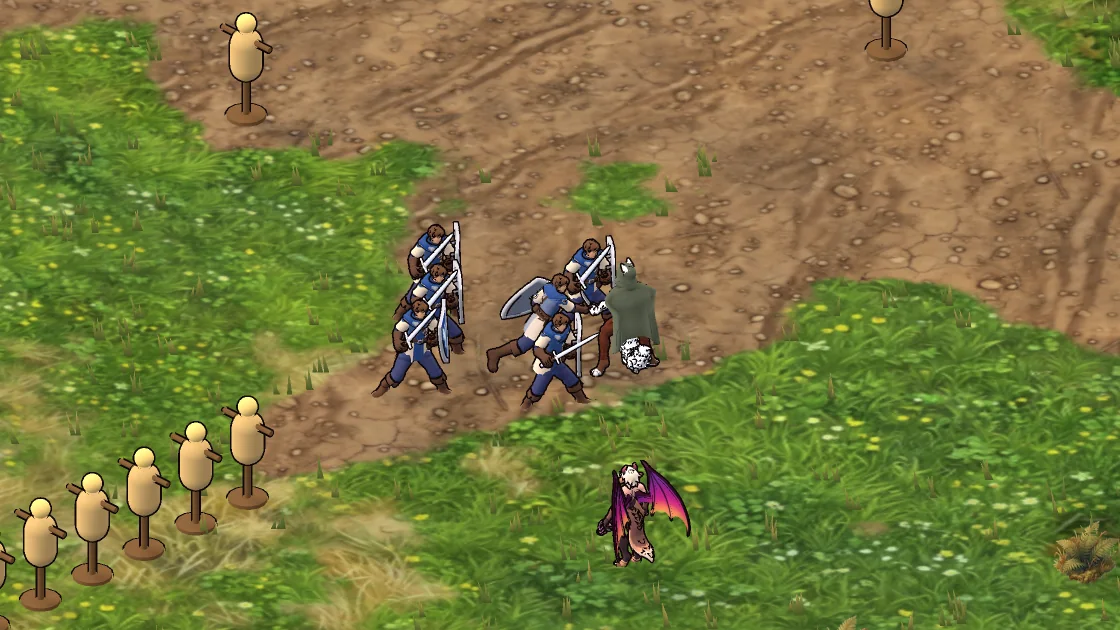
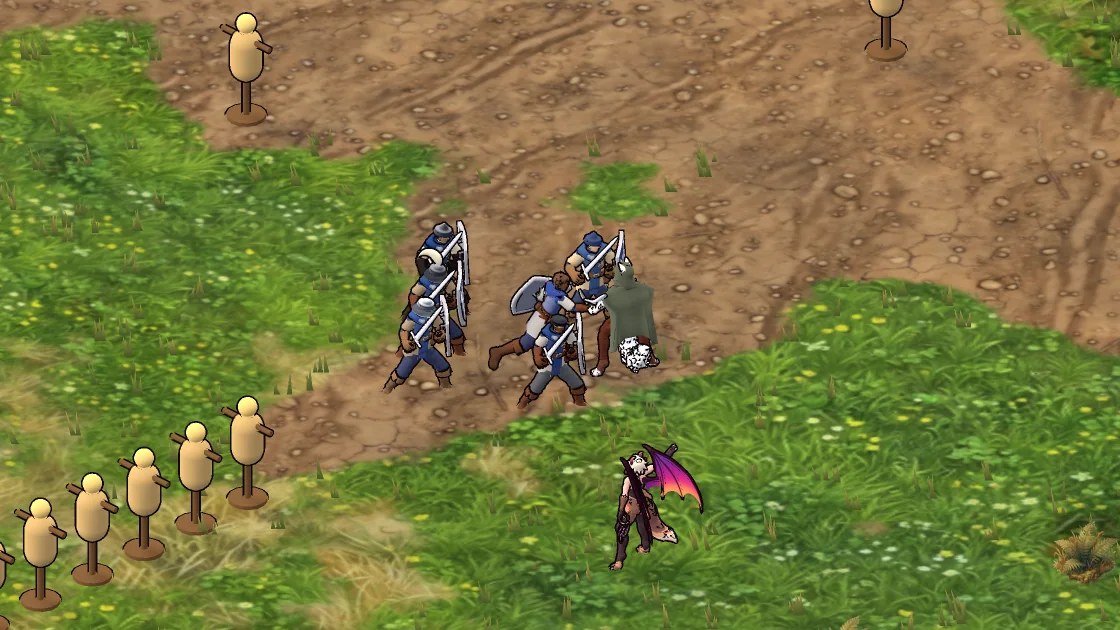
Meridius Godot: the sandbox squad dressed by the squad looks lab
The 3D unit sandbox's footman squad now wears the squad looks lab's dress
(prototypes/squad_looks) when it is on disk: each man his own helmet, face
and build under the blue livery and the line kit, the squad's mark on every
shield, and glances at his squadmates and the roster. A squad spawned again
is dressed anew. Without the lab the men are the plain footman.

The Workspace's Sandbox card shows the dressed squad in its six squad
pictures, and the README says where the dress comes from and how far off his
place a man may come to rest (up to 30 cm where his whole strides do not fit
the way).

diff --git a/workspace/2026-10-24_sandbox/index.html b/workspace/2026-10-24_sandbox/index.html
@@ -16,7 +16,7 @@
     <div class="hero-copy">
       <p class="eyebrow">Meridius · 3D unit sandbox</p>
       <h1>Every 3D unit on <em>one battlefield</em></h1>
-      <p class="lede">Six rigged characters and a squad of six footmen on a training ground in the game's own look: painted hills, the woodland, a pond, the fog of war and the night. March them over the map, set them on each other, drill the squad and play any of their clips.</p>
+      <p class="lede">Six rigged characters and a squad of six footmen, each in his own helmet and face, on a training ground in the game's own look: painted hills, the woodland, a pond, the fog of war and the night. March them over the map, set them on each other, drill the squad and play any of their clips.</p>
       <div class="launch">
         <button id="launch" class="launch-btn" type="button"><span class="play" aria-hidden="true"></span><span>Open the sandbox</span></button>
         <p id="launch-status" class="launch-status" role="status" aria-live="polite">Opens in its own maximized window. If the sandbox is already open, the button brings it to the front.</p>
@@ -167,7 +167,7 @@ powershell -ExecutionPolicy Bypass -File .\Setup.ps1 -Mode Update</pre>
     <div class="gallery-group">
       <h3>The footman squad</h3>
       <div class="shots">
-        <figure class="shot"><img src="media/squad-ranks.webp" width="1120" height="630" loading="lazy" decoding="async" alt="Six footmen in two ranks of three, each standing a little differently"><figcaption><b>Two ranks of three.</b> Each man rests a few centimetres off his place, turned a few degrees, his idle at its own phase.</figcaption></figure>
+        <figure class="shot"><img src="media/squad-ranks.webp" width="1120" height="630" loading="lazy" decoding="async" alt="Six footmen in two ranks of three, each with his own helmet and face, the blue eagle on every shield"><figcaption><b>Two ranks of three.</b> Each man dressed by the looks lab in his own helmet and face, resting a little off his place, his idle at its own phase.</figcaption></figure>
         <figure class="shot"><img src="media/squad-march.webp" width="1120" height="630" loading="lazy" decoding="async" alt="The squad marching in formation towards the drill line of six straw dummies"><figcaption><b>The advance.</b> In formation to the drill line, each man setting off and stepping at his own pace.</figcaption></figure>
         <figure class="shot"><img src="media/squad-front-rank.webp" width="1120" height="630" loading="lazy" decoding="async" alt="The front rank of three footmen cutting at the dummies while the rear rank stands behind"><figcaption><b>The front rank strikes.</b> The rear rank stands ready; no two blows start together.</figcaption></figure>
         <figure class="shot"><img src="media/squad-reformed.webp" width="1120" height="630" loading="lazy" decoding="async" alt="The squad back in two ranks before the drill line after the fight"><figcaption><b>Re-formed.</b> After a few blows each, the ranks close up where they fought.</figcaption></figure>

diff --git a/projects/meridius/source/godot/prototypes/sandbox3d/README.md b/projects/meridius/source/godot/prototypes/sandbox3d/README.md
@@ -30,7 +30,11 @@ with the footman) and says which in the left panel and the console.
 ## The footman squad
 
 Six footmen in two ranks of three, each on the footman's own controller, who
-march, stand and fight together but never quite in step:
+march, stand and fight together but never quite in step. Where the squad looks
+lab (`prototypes/squad_looks`) is present, it dresses each man as a squad of
+the blue livery and the line kit: his own helmet, face and build, and the
+squad's mark on his shield; a squad spawned again is dressed anew. Without it
+the men are the plain footman.
 
 - **Marching.** Click a man to select the squad, then the ground. The squad
   follows its route in formation, each man at his own place in it (the ranks
@@ -38,7 +42,8 @@ march, stand and fight together but never quite in step:
   sent back the way it came puts its rear rank in front. The file leader sets
   off first and the others a moment after, the rear rank last; each walks at
   his own pace (0.95x to 1.05x) and comes to rest a few centimetres off his
-  exact place, turned a few degrees.
+  exact place, turned a few degrees (up to 30 cm where his whole strides do
+  not fit the way, or where he stood that near and did not move).
 - **Standing.** Each man's idle starts at its own phase, and every so often
   each plays his guard idle at his own moment.
 - **Fighting.** Click a foe or a dummy (or **1** / **Space**). The squad
@@ -117,7 +122,8 @@ grass (0.29, 0.40, 0.17) showed as (0.04, 0.13, 0.0). Keep it out.
   painted cards.
 - `art3d/`: the spearman, crossbowman and battle mage exports with their
   sidecars. The footman and succubus are read from `prototypes/footman_anim/art3d`,
-  the wolf scout from `prototypes/wolf_scout_anim/art3d`.
+  the wolf scout from `prototypes/wolf_scout_anim/art3d`, the squad's dress
+  from `prototypes/squad_looks/scripts`.
 
 ## Adding a unit
 
